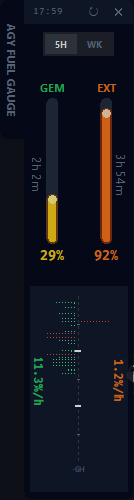
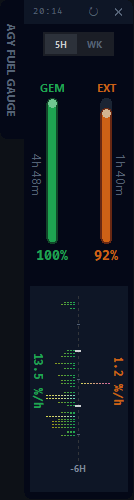
docs: update README with pixel-perfect equalizer and overdrive gradient descriptions, and replace screenshots

diff --git a/README.md b/README.md
@@ -14,8 +14,8 @@ The trick is surprisingly simple: Antigravity IDE already runs a local backgroun
 
 - **Zero Auth Setup**: The widget scans for your active `language_server.exe` process to dynamically locate its listening port, then reads the `x-codeium-csrf-token` straight from the startup logs. Nothing to configure.
 - **Cyber-Stick UI**: An irregular L-shaped floating glass interface with vertical fluid gauges designed for OLED black backgrounds. Uses native Windows GDI region APIs (`SetWindowRgn`) for a frameless, perfectly rounded asymmetrical shape.
-- **Dynamic Color Tiers**: Both Gemini and External gauges feature a 3-tier reactive color system (Safe/Warn/Danger) that updates real-time based on your consumption.
-- **Absolute Equalizer Chart**: We ditched the misleading auto-scaling line charts. The history chart now uses a pixel-perfect 10-block discrete equalizer layout with a fixed absolute scale (max 5.0% per 3 minutes). Exceed the limit, and the blocks flash neon red.
+- **Pixel-Perfect Equalizer Chart**: The history chart is rendered as a pixel-perfect, zero-gap equalizer. Each data row is perfectly mapped to exactly 1 pixel, capturing 3-minute increments with absolute precision.
+- **Overdrive Gradient System**: The history equalizer features a dynamic RGB color interpolation engine. Gemini (Green → Yellow) and External (Orange → Red) colors shift smoothly based on usage intensity. If consumption exceeds the physical scale (5.0%), the row engages "Overdrive mode"—glowing with intense, overexposed neon highlights.
 - **Micro-Animations**: A subtle green scanline sweeps across the data panel during background syncs, confirming telemetry without breaking your flow.
 
 ## 💻 Compatibility
@@ -68,8 +68,8 @@ Restart your Antigravity IDE. A blue AGY icon should appear in your Windows syst
 
 - **自動找 Port 與 Token**：程式會找到 `language_server.exe` 的進程來定位目前監聽的 Port，並從啟動日誌直接取出 `x-codeium-csrf-token`。你什麼都不用設定。
 - **Cyber-Stick 賽博龐克介面**：採用不規則 L 型的懸浮玻璃面板與垂直能量條設計。底層呼叫 Windows 原生 GDI Region API，實現無邊框且具有完美不對稱圓角的幾何外觀。
-- **三段式動態變色**：Gemini 與外部模型皆具備三階段（安全/警告/危險）的色彩警示系統，能量柱會隨著消耗量即時變色。
-- **絕對刻度等化器 (Equalizer Chart)**：捨棄了容易造成誤判的平滑曲線，改用極致精準的「10 格實體方塊」陣列來呈現消耗歷史。鎖定絕對上限（單次最高 5.0%），如果瞬間消耗破表，方塊會瞬間轉為高亮度霓虹紅！
+- **像素級無縫等化器 (Pixel-Perfect Equalizer)**：下方的歷史消耗圖表採用了像素級渲染引擎。每 3 分鐘一筆的資料被精準映射到絕對的 1 像素高度，徹底消除了任何 Sub-pixel 渲染導致的粗細不一，呈現出完美均勻且連續的等化器視覺。
+- **過載發光漸層 (Overdrive Gradient)**：等化器內建動態 RGB 色彩內插引擎，Gemini 側從底部「賽博綠」漸變至頂峰「警告黃」，EXT 側則由「活力橘」漸變至「玫瑰紅」。當單次消耗突破物理刻度上限（5.0%）時，整排等化器會瞬間切換成「過載發光模式」，注入高亮度白光營造霓虹燈過載般的視覺衝擊。
 - **掃描線微動畫**：每當背景成功抓取新資料時，圖表區會低調地掃過一條微光掃描線，提供「系統正在運作」的明確動態回饋，同時絕不干擾你的寫程式心流。
 
 ## 💻 支援環境
